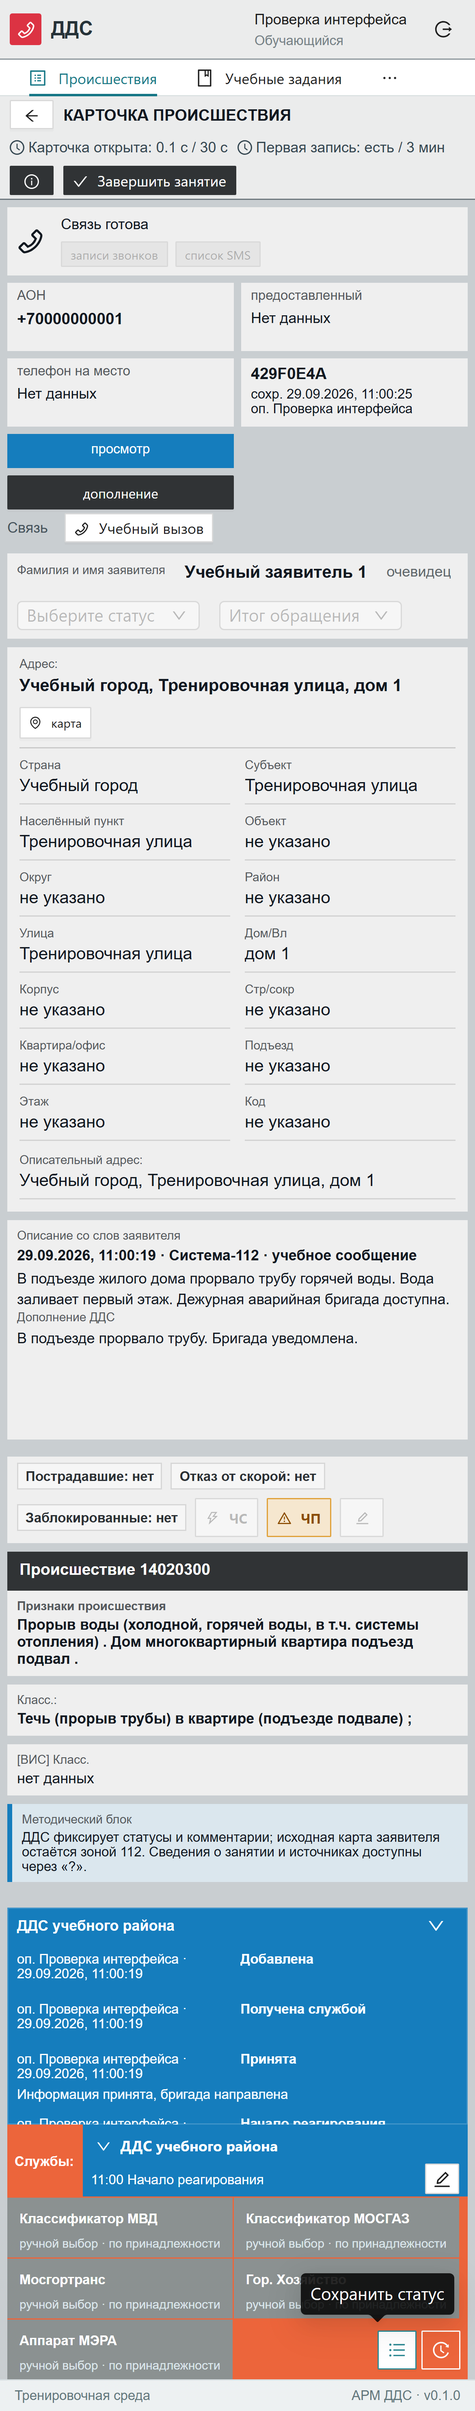
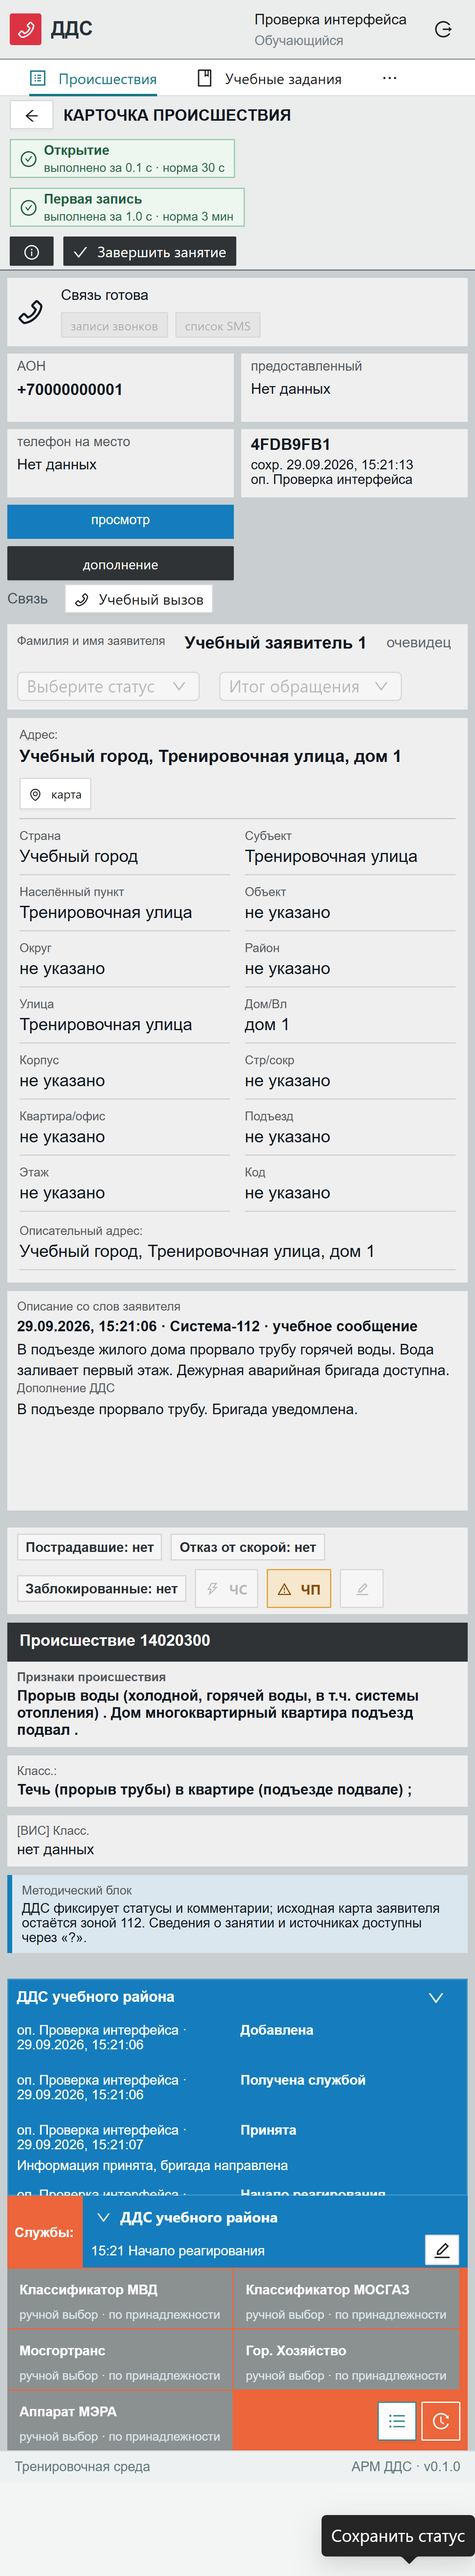
Clarify ARM timing SLA indicators

diff --git a/frontend/src/workspace.tsx b/frontend/src/workspace.tsx
@@ -21,6 +21,7 @@ import {
 } from 'antd';
 import {
   ArrowLeftOutlined,
+  CheckCircleOutlined,
   CheckOutlined,
   ClockCircleOutlined,
   CloseOutlined,
@@ -201,6 +202,21 @@ export function Workspace() {
     ? Math.max(0, (new Date(firstTextReaction.created_at).getTime() - cardCreatedMs) / 1000)
     : Math.max(0, (frozenNowMs - cardCreatedMs) / 1000);
   const firstRecordDone = Boolean(firstTextReaction);
+  const firstRecordDeadline = 180;
+  const openingLate = !card.acknowledged_at && elapsed > 30;
+  const firstRecordLate = !firstRecordDone && firstRecordSeconds > firstRecordDeadline;
+  const openingStatus = card.acknowledged_at
+    ? `выполнено за ${elapsed.toFixed(1)} с`
+    : locked
+      ? 'не зафиксировано'
+      : `идёт ${elapsed.toFixed(1)} с`;
+  const firstRecordStatus = firstRecordDone
+    ? `выполнена за ${firstRecordSeconds.toFixed(1)} с`
+    : locked
+      ? 'не внесена'
+      : firstRecordLate
+        ? `просрочено на ${time(firstRecordSeconds - firstRecordDeadline)}`
+        : `осталось ${time(firstRecordDeadline - firstRecordSeconds)}`;
   const currentCard = async () => {
     if (pendingPhone.current) await pendingPhone.current;
     return api.endpoints.incident.select(id)(store.getState()).data || card;
@@ -310,11 +326,6 @@ export function Workspace() {
       ) : null}
     </>
   );
-  const acknowledgementLabel = card.acknowledged_at
-    ? 'Карточка открыта'
-    : locked
-      ? 'Открытие не зафиксировано'
-      : 'Открытие карточки';
   return (
     <div className="arm-workspace">
       <div className="arm-training-rail">
@@ -327,21 +338,48 @@ export function Workspace() {
             />
           </Tooltip>
           <span className="arm-toolbar-title">Карточка происшествия</span>
-          <span
-            className={'arm-ack ' + (!card.acknowledged_at && elapsed > 30 ? 'arm-ack-late' : '')}
-            role="status"
-          >
-            <ClockCircleOutlined /> {acknowledgementLabel}: {elapsed.toFixed(1)} с / 30 с
-          </span>
-          <span
-            className={
-              'arm-ack ' + (!firstRecordDone && firstRecordSeconds > 180 ? 'arm-ack-late' : '')
-            }
-            role="status"
-          >
-            <ClockCircleOutlined /> Первая запись:{' '}
-            {firstRecordDone ? 'есть' : locked ? 'нет' : firstRecordSeconds.toFixed(1) + ' с'} / 3 мин
-          </span>
+          <Tooltip title="Время от появления карточки в строке сообщений до открытия диспетчером ДДС. После открытия показатель фиксируется.">
+            <span
+              className={
+                'arm-sla ' +
+                (card.acknowledged_at ? 'arm-sla-done' : openingLate ? 'arm-sla-late' : '')
+              }
+              role="status"
+            >
+              {card.acknowledged_at ? (
+                <CheckCircleOutlined />
+              ) : openingLate ? (
+                <WarningOutlined />
+              ) : (
+                <ClockCircleOutlined />
+              )}
+              <span>
+                <b>Открытие</b>
+                <small>{openingStatus} · норма 30 с</small>
+              </span>
+            </span>
+          </Tooltip>
+          <Tooltip title="Время от появления карточки до первой записи статуса ДДС с комментарием. Пока запись не внесена, показывается остаток или просрочка.">
+            <span
+              className={
+                'arm-sla ' +
+                (firstRecordDone ? 'arm-sla-done' : firstRecordLate ? 'arm-sla-late' : '')
+              }
+              role="status"
+            >
+              {firstRecordDone ? (
+                <CheckCircleOutlined />
+              ) : firstRecordLate ? (
+                <WarningOutlined />
+              ) : (
+                <ClockCircleOutlined />
+              )}
+              <span>
+                <b>Первая запись</b>
+                <small>{firstRecordStatus} · норма 3 мин</small>
+              </span>
+            </span>
+          </Tooltip>
         </Space>
         <Space wrap>
           <Tooltip title="Сведения о занятии и действии">

diff --git a/frontend/tests/flow.spec.ts b/frontend/tests/flow.spec.ts
@@ -107,7 +107,10 @@ test('training flow, phone, terminal lock and instructor feedback', async ({
     .click();
   await expect(page.getByRole('button', { name: 'Изменить статус' })).toBeVisible();
   await expect(page.getByText('Получена службой', { exact: true }).first()).toBeVisible();
-  await expect(page.getByText(/Первая запись:/)).toBeVisible();
+  await expect(page.getByText('Открытие', { exact: true })).toBeVisible();
+  await expect(page.getByText(/норма 30 с/)).toBeVisible();
+  await expect(page.getByText('Первая запись', { exact: true })).toBeVisible();
+  await expect(page.getByText(/норма 3 мин/)).toBeVisible();
   const id = page.url().split('/').at(-1)!;
   const setStatus = async (label: string, comment: string) => {
     await page.getByRole('button', { name: 'Изменить статус' }).click();
@@ -166,6 +169,9 @@ test('training flow, phone, terminal lock and instructor feedback', async ({
   await expect(page.getByLabel('Пояснение автоматической проверки')).toBeVisible();
   await expect(page.getByText('экспериментальный балл', { exact: true })).toBeVisible();
   await expect(page.locator('.ant-message-notice')).toHaveCount(0);
+  await page.mouse.move(920, 520);
+  await page.waitForTimeout(800);
+  await page.locator('.ant-tooltip').evaluateAll((nodes) => nodes.forEach((node) => node.remove()));
   if (testInfo.project.name === 'desktop')
     await page.screenshot({ path: '../docs/images/result.png', fullPage: true });
   await page.reload();
@@ -339,8 +345,8 @@ test('first record timer stops once the session is finished', async ({ page, req
   await expect(page.getByRole('heading', { name: 'Поиск происшествий' })).toBeVisible();
   await page.goto('/incidents/' + card.id);
   await expect(page.getByRole('heading', { name: 'Результат занятия' })).toBeVisible();
-  const chip = page.getByText(/Первая запись:/);
-  await expect(chip).toContainText('нет');
+  const chip = page.locator('.arm-sla').filter({ hasText: 'Первая запись' });
+  await expect(chip).toContainText('не внесена');
   const frozen = await chip.innerText();
   await page.waitForTimeout(2000);
   expect(await chip.innerText()).toBe(frozen);

diff --git a/frontend/src/components.tsx b/frontend/src/components.tsx
@@ -151,19 +151,19 @@ export function Result({ result }: { result: Evaluation }) {
         <div>
           <strong>
             {result.timing.acknowledgement_seconds === null
-              ? 'Нет'
+              ? 'Не открыта'
               : result.timing.acknowledgement_seconds + ' с'}
           </strong>
-          <span>открытие карточки</span>
+          <span>получение карточки</span>
         </div>
         <div>
           <strong>
             {result.timing.first_response_seconds === undefined ||
             result.timing.first_response_seconds === null
-              ? 'Нет'
+              ? 'Не внесена'
               : result.timing.first_response_seconds + ' с'}
           </strong>
-          <span>первая запись</span>
+          <span>первая запись статуса</span>
         </div>
       </div>
       {problems === 0 ? (

diff --git a/frontend/src/arm/arm.css b/frontend/src/arm/arm.css
@@ -99,14 +99,48 @@
   border-color: #303335;
   color: #fff;
 }
-.arm-ack {
-  font-size: 12px;
+.arm-sla {
+  display: inline-flex;
+  align-items: center;
+  gap: 6px;
+  min-height: 27px;
+  padding: 2px 8px;
+  background: #f6f8f8;
+  border: 1px solid #c7d2d5;
   color: #344650;
   font-variant-numeric: tabular-nums;
 }
-.arm-ack-late {
-  color: #ab211a;
-  font-weight: bold;
+.arm-sla > .anticon {
+  font-size: 13px;
+}
+.arm-sla b,
+.arm-sla small {
+  display: block;
+  line-height: 1.15;
+}
+.arm-sla b {
+  font-size: 11px;
+}
+.arm-sla small {
+  margin-top: 2px;
+  color: #53666c;
+  font-size: 10px;
+}
+.arm-sla-done {
+  background: #edf7f0;
+  border-color: #9ccbad;
+  color: #235f3f;
+}
+.arm-sla-done small {
+  color: #2c6949;
+}
+.arm-sla-late {
+  background: #fff0ed;
+  border-color: #e2a49a;
+  color: #9a2f24;
+}
+.arm-sla-late small {
+  color: #9a2f24;
 }
 .arm-scene {
   min-height: calc(100dvh - 138px);

diff --git a/docs/VERIFICATION.md b/docs/VERIFICATION.md
@@ -1,5 +1,25 @@
 # Протокол Проверки
 
+## 29.09.2026 — понятные SLA-индикаторы времени в АРМ
+
+Цель прохода: жалоба «время не запускается / непонятно, почему два секундомера».
+Серверные нормативы не менялись: 30 секунд до открытия карточки и 3 минуты до
+первой записи статуса с комментарием уже считаются. Исправлен именно UI в
+`frontend/src/workspace.tsx`: два одинаковых секундомера заменены на SLA-чипы.
+«Открытие» теперь показывает зафиксированный факт получения карточки, а «Первая
+запись» показывает остаток времени, просрочку, выполнение или «не внесена» после
+закрытия занятия. В результате занятия `Нет` заменено на более точные подписи
+`Не открыта` / `Не внесена`; обновлены регрессионные проверки и screenshots.
+
+| Проверка | Фактический результат |
+|---|---|
+| `npm run typecheck` (frontend) | Passed |
+| `npm run build` (frontend) | Passed; сохраняется предупреждение Vite о крупных MapLibre/vendor chunks |
+| `npx playwright test tests/flow.spec.ts --grep "first record timer stops" --project=desktop` | Passed |
+| `npm test` (frontend) | 30 passed, desktop + mobile |
+| `ruff check backend ml scripts` | Passed |
+| `pytest backend/tests -q` | 42 passed; 2 upstream warnings |
+
 ## 29.09.2026 — остановка счётчиков после завершения занятия
 
 Цель прохода: жалоба «таймер продолжает идти после завершения». Причина найдена в

diff --git a/docs/ai/TASK_QUEUE.md b/docs/ai/TASK_QUEUE.md
@@ -16,6 +16,7 @@ The historical integration queue below must not trigger repeated merges.
 - [x] Customer-wow pass: added `/readiness` deployment/value dashboard, richer ML result explanation, updated demo route, refreshed readiness screenshot, verified Ruff + 34 backend tests + frontend build + 24 browser tests.
 - [x] Instructor scenario generation loop (2026-09-29): separate `POST /v1/generate` contract with `scenario_generator` capability, gateway `generate_scenarios` + `ML_GENERATE_TIMEOUT`, staff endpoints `/instructor/scenarios/generate|import` sharing `backend/app/scenario_packages.py` validation with the CLI, React `ScenarioLab` preview/approve/import; Ruff + pytest 42 + Playwright 28 + build green; real local-model generation, Postgres import and 409 duplicate path verified.
 - [x] Frozen workspace counters after session finish (2026-09-29): `workspace.tsx` stops the "Первая запись"/"Карточка открыта" fallback at `finished_at` (or `updated_at` when locked) and shows `нет` instead of a growing value; `Incident.finished_at` added to types; build + Playwright 30 green with a regression test.
+- [x] Readable ARM timing SLA indicators (2026-09-29): replaced two ambiguous stopwatch chips with semantic `Открытие` and `Первая запись` SLA chips, clarified result labels, refreshed screenshots; frontend typecheck/build, targeted timer regression, Playwright 30/30, Ruff and backend pytest 42/42 passed.
 - [ ] Team: approve methodology/scenarios, prepare presentation/screencast before stop-code. The repository is public, so no separate jury access grant is required.
 
 Residual scope and evidence: docs/FINAL_INTEGRATION_AUDIT.ru.md and docs/VERIFICATION.md.

diff --git a/docs/ai/PROJECT_STATE.md b/docs/ai/PROJECT_STATE.md
@@ -1,6 +1,21 @@
 # Project State
 
-## Current checkpoint: 2026-09-29 workspace timer freeze after session finish
+## Current checkpoint: 2026-09-29 readable ARM timing SLA indicators
+
+Bug report from Danil after the OpenCode finalization: the time block looked like two
+running stopwatches and was unclear (`Карточка открыта: 0.1 с / 30 с`, `Первая запись:
+14.0 с / 3 мин`, result metric `Нет`). The server timing logic from the previous fix
+remains unchanged. UI fix: `frontend/src/workspace.tsx` now renders two semantic SLA
+chips instead of two identical timers. `Открытие` is a fixed acknowledgement result with
+the 30-second norm; `Первая запись` shows remaining time, overdue duration, completed
+duration, or `не внесена` after the session is locked. `frontend/src/components.tsx`
+uses explicit result labels (`получение карточки`, `первая запись статуса`, `Не
+внесена`). CSS moved from `.arm-ack` to `.arm-sla`; `frontend/tests/flow.spec.ts`
+covers the new copy and frozen terminal state. Verification 2026-09-29: frontend
+typecheck/build passed, targeted timer regression passed, full Playwright 30/30 passed,
+Ruff passed, backend pytest 42/42 passed. Screenshots in `docs/images` were refreshed.
+
+## Previous checkpoint: 2026-09-29 workspace timer freeze after session finish
 
 Bug report: counters kept ticking after «Завершить занятие» (chip «Первая запись» showed
 240.1 s on a 02:35 session). Cause in `frontend/src/workspace.tsx`: the fallback was
